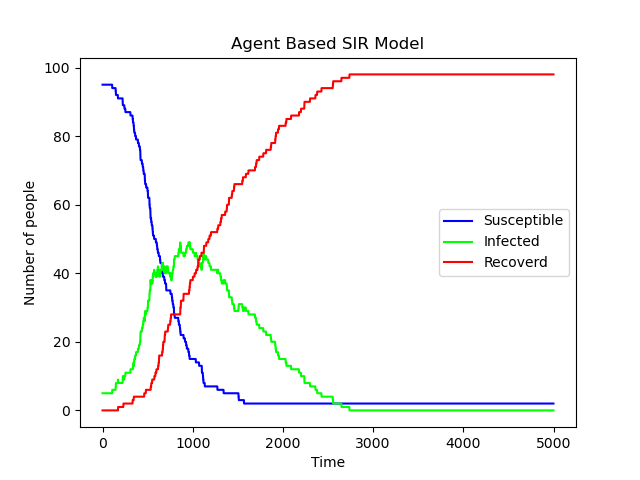
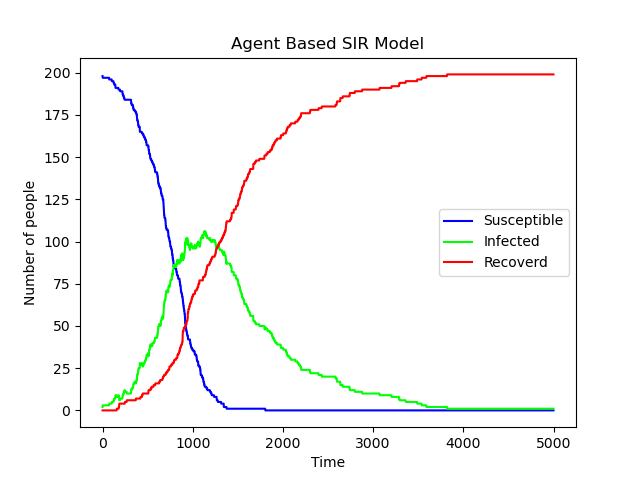
made animation less version

diff --git a/Agent/animation.py b/Agent/animation.py
@@ -1,0 +1,140 @@
+from random import random
+import numpy as np
+import pygame
+import sys
+from pygame.locals import *
+import matplotlib.pyplot as plt
+
+width, height = 600, 600
+
+T = 5000
+
+gamma = 0.0015
+beta = 0.05
+radius = 10.0
+init_S = 198
+init_I = 2
+
+WHITE = (255,255,255)
+RED = pygame.Color((255,0,0,180))
+BLUE = pygame.Color((0,0,255,180))
+GREEN = pygame.Color((0,255,0,180))
+
+
+def draw_circle_alpha(surface, color, center, radius):
+    target_rect = pygame.Rect(center, (0, 0)).inflate((radius * 2, radius * 2))
+    shape_surf = pygame.Surface(target_rect.size, pygame.SRCALPHA)
+    pygame.draw.circle(shape_surf, color, (radius, radius), radius)
+    surface.blit(shape_surf, target_rect)
+
+class Person:
+	
+	def __init__(self, position, dx, dy, SIR='S'):
+		self.position = position
+		self.SIR = SIR
+		self.dx = dx
+		self.dy = dy
+	
+	def draw(self):
+		draw_circle_alpha(screen, self.color, self.position, radius)
+		#pygame.draw.circle(screen, self.color, self.position, radius)
+	
+		
+	def infect(self, other):
+		if self.SIR =='S' and other.SIR =='I':
+			distance = np.linalg.norm(self.position - other.position)
+			
+			if distance <1.5*radius and  random() < beta:
+				self.SIR = 'I'
+
+	def update(self):
+		if self.position[0] + radius > width or self.position[0] - radius < 0:
+			self.dx = -self.dx	
+			
+		if self.position[1] + radius > height or self.position[1] - radius < 0:
+			self.dy = -self.dy
+
+		self.position += np.array([self.dx, self.dy]) #* dt * 0.15
+		
+		if self.SIR == 'S':
+			self.color = BLUE 
+		elif self.SIR =='I':
+			self.color = GREEN
+		elif self.SIR == 'R':
+			self.color = RED
+
+		if self.SIR == 'I' and random() < gamma:
+			self.SIR = 'R'
+
+		for i in range(len(population)):
+			if self == population[i]:
+				continue
+			else:
+				self.infect(population[i])
+
+		self.draw()
+
+population = []
+
+for i in range(init_S):
+	x = radius + random()*(width - 2*radius)
+	y = radius + random()*(height - 2*radius)
+
+	xspeed = (random() - 0.5)*2
+	yspeed = (random() - 0.5)*2
+	
+	population.append( Person(position=np.array([x,y]),dx=xspeed, dy=yspeed, SIR='S' ) )
+
+for i in range(init_I):
+	x = random() * (width - radius*2) + radius
+	y = random() * (height - radius*2) + radius
+	
+	xspeed = (random() - 0.5)*2
+	yspeed = (random() - 0.5)*2
+	
+	population.append( Person(position=np.array([x, y]),dx=xspeed, dy=yspeed, SIR='I' ) )
+
+
+Sarray = np.zeros(T)
+Iarray = np.zeros(T)
+Rarray = np.zeros(T)
+
+
+screen = pygame.display.set_mode((width,height))
+screen.fill(WHITE)
+clock = pygame.time.Clock()
+
+
+for i in range(T):
+
+	dt = clock.tick(120)
+
+	for event in pygame.event.get():
+		if event.type == pygame.QUIT:
+			sys.exit()
+	
+	for person in population:
+		person.update()
+
+		if person.SIR == 'S':
+			Sarray[i] += 1
+		elif person.SIR == 'I':
+			Iarray[i] += 1
+		elif person.SIR == 'R':
+			Rarray[i] += 1
+
+	pygame.display.update()
+	screen.fill(WHITE)
+
+
+plt.plot(Sarray, label='Susceptible', color=(0,0,1))
+plt.plot(Iarray, label='Infected', color=(0,1,0))
+plt.plot(Rarray, label='Recoverd', color=(1,0,0))
+
+plt.xlabel("Time")
+plt.ylabel("Number of people")
+plt.title("Agent Based SIR Model")
+plt.legend(loc=0)
+
+plt.savefig("agent.png")
+

diff --git a/Agent/no_animation.py b/Agent/no_animation.py
@@ -1,31 +1,17 @@
 from random import random
 import numpy as np
-import pygame
-import sys
-from pygame.locals import *
 import matplotlib.pyplot as plt
 
 width, height = 600, 600
 
-T = 500
+T = 5000
 
 gamma = 0.0015
 beta = 0.05
-radius = 30.0
-init_S = 10
-init_I = 5
+radius = 10.0
+init_S = 198
+init_I = 2
 
-WHITE = (255,255,255)
-RED = pygame.Color((255,0,0,180))
-BLUE = pygame.Color((0,0,255,180))
-GREEN = pygame.Color((0,255,0,180))
-
-
-def draw_circle_alpha(surface, color, center, radius):
-    target_rect = pygame.Rect(center, (0, 0)).inflate((radius * 2, radius * 2))
-    shape_surf = pygame.Surface(target_rect.size, pygame.SRCALPHA)
-    pygame.draw.circle(shape_surf, color, (radius, radius), radius)
-    surface.blit(shape_surf, target_rect)
 
 class Person:
 	
@@ -34,10 +20,6 @@ class Person:
 		self.SIR = SIR
 		self.dx = dx
 		self.dy = dy
-	
-	def draw(self):
-		draw_circle_alpha(screen, self.color, self.position, radius)
-		#pygame.draw.circle(screen, self.color, self.position, radius)
 	
 		
 	def infect(self, other):
@@ -54,14 +36,8 @@ class Person:
 		if self.position[1] + radius > height or self.position[1] - radius < 0:
 			self.dy = -self.dy
 
-		self.position += np.array([self.dx, self.dy]) * dt * 0.15
+		self.position += np.array([self.dx, self.dy]) #* dt * 0.15
 		
-		if self.SIR == 'S':
-			self.color = BLUE 
-		elif self.SIR =='I':
-			self.color = GREEN
-		elif self.SIR == 'R':
-			self.color = RED
 
 		if self.SIR == 'I' and random() < gamma:
 			self.SIR = 'R'
@@ -72,7 +48,6 @@ class Person:
 			else:
 				self.infect(population[i])
 
-		self.draw()
 
 population = []
 
@@ -100,19 +75,8 @@ Iarray = np.zeros(T)
 Rarray = np.zeros(T)
 
 
-screen = pygame.display.set_mode((width,height))
-screen.fill(WHITE)
-clock = pygame.time.Clock()
-
-
 for i in range(T):
 
-	dt = clock.tick(30)
-
-	for event in pygame.event.get():
-		if event.type == pygame.QUIT:
-			sys.exit()
-	
 	for person in population:
 		person.update()
 
@@ -123,8 +87,7 @@ for i in range(T):
 		elif person.SIR == 'R':
 			Rarray[i] += 1
 
-	pygame.display.update()
-	screen.fill(WHITE)
+
 
 plt.plot(Sarray, label='Susceptible', color=(0,0,1))
 plt.plot(Iarray, label='Infected', color=(0,1,0))
@@ -135,5 +98,5 @@ plt.ylabel("Number of people")
 plt.title("Agent Based SIR Model")
 plt.legend(loc=0)
 
-plt.savefig("agent.png")
+plt.savefig("no_animation.png")
 
